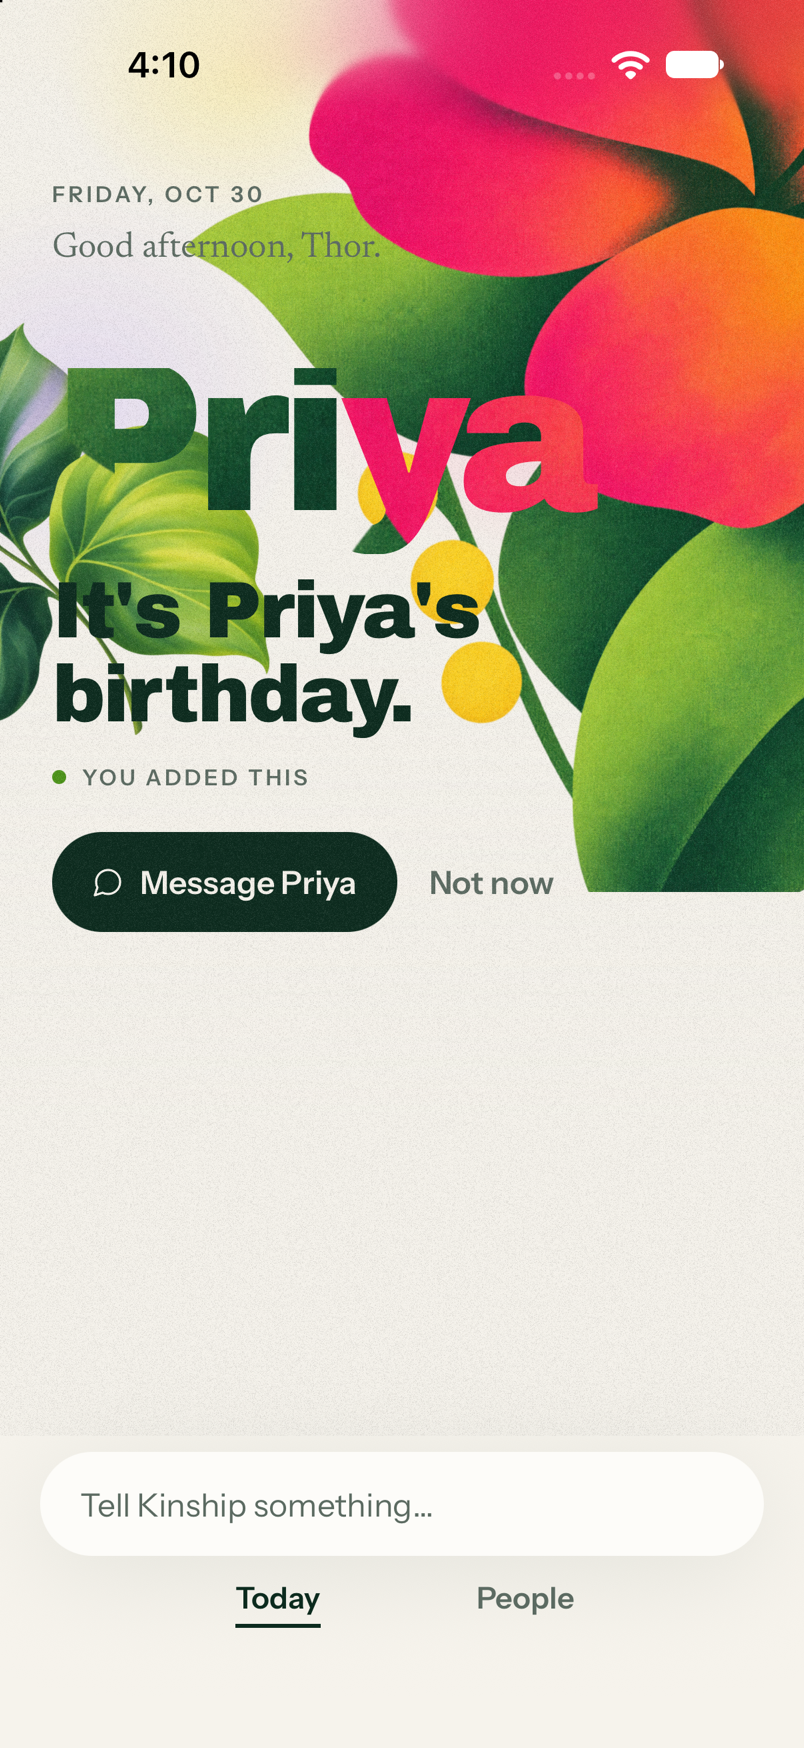
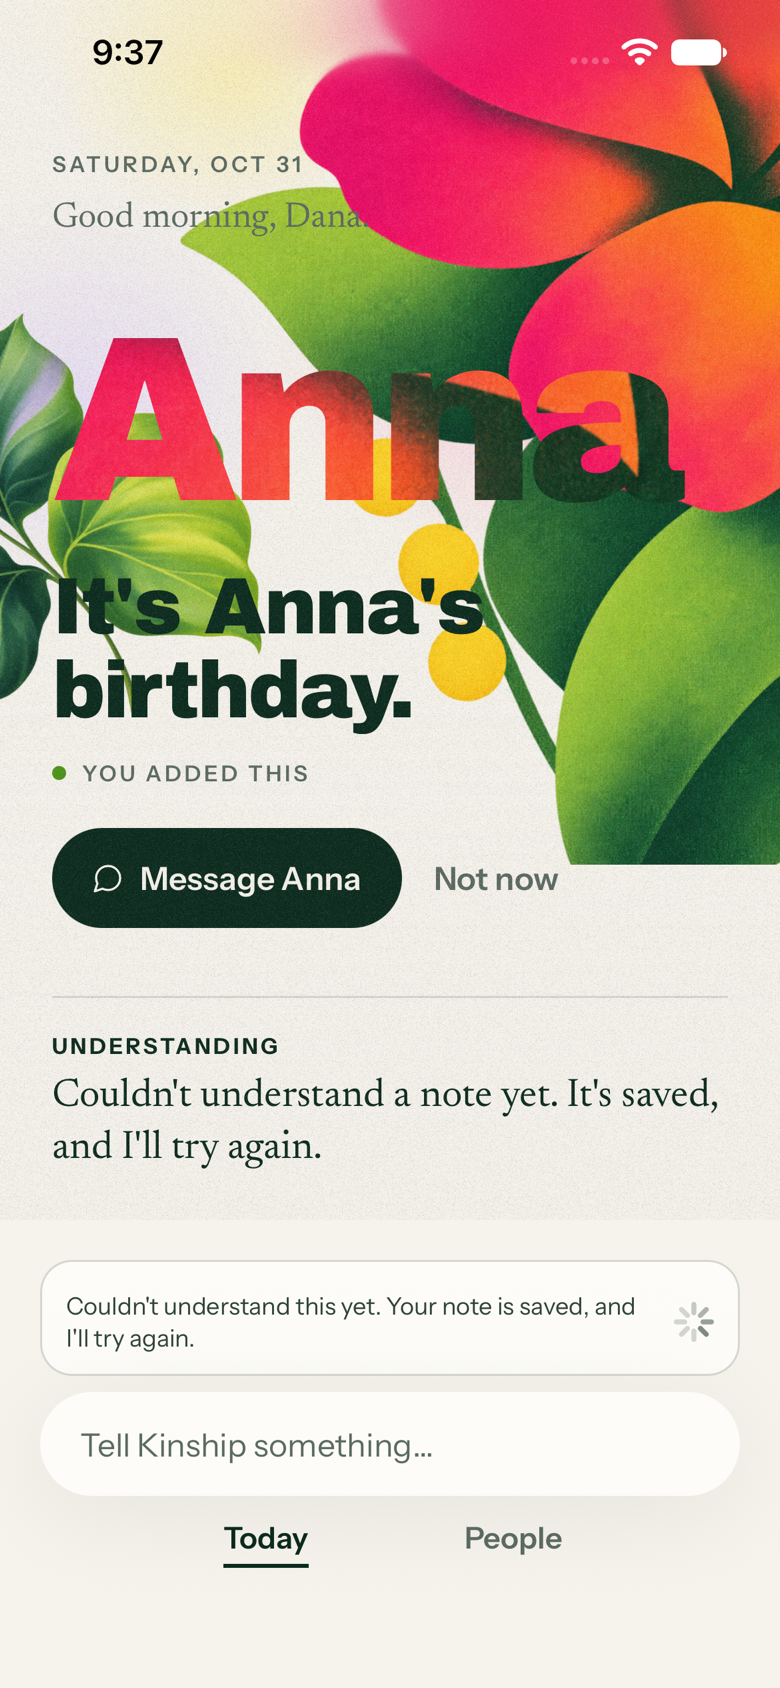
WS-2 Electric Garden: simulator pass two (17e), fixes and evidence
From the walk on the iPhone 17e (390 pt) and the 18 Pro: pill labels vanished
at accessibility text sizes (iOS fit-to-width left the pill blank), so pills
wrap their label at large scales and rows of actions stack; the first-use
orientation and the welcome promise ran over the bloom, so the bloom sits
higher and smaller there; the example's leaf moved off the close control; the
bloom-name window aimed at the petals. Evidence rows recorded in
docs/product/electric-garden-simulator-evidence.md with screenshots under
docs/product/screens/electric-garden/ (light, dark, largest text, small width).

diff --git a/src/ui/Pill.tsx b/src/ui/Pill.tsx
@@ -16,7 +16,7 @@ import React from "react";
 import { ActivityIndicator, Text, View, type ViewStyle } from "react-native";
 import { Pressable } from "./Pressable";
 import { height as H, maxScale, press, radius, size as SIZE, space, TOUCH, type } from "@/design/tokens";
-import { usePalette } from "./theme";
+import { isLargeText, usePalette } from "./theme";
 
 export type PillVariant = "primary" | "ghost" | "quiet" | "danger";
 
@@ -59,6 +59,10 @@ export function Pill({
 }) {
   const p = usePalette();
   const h = size === "regular" ? H.button : H.small;
+  // At accessibility text sizes the label wraps to a second line instead of shrinking: iOS's fit-to-width
+  // can leave a one-line label blank when the scaled text is wider than the pill (seen on the Electric
+  // Garden simulator pass at the largest size, "Message Anna" drawn as an empty pill).
+  const large = isLargeText();
   const fg = variant === "primary" ? p.onInk : variant === "quiet" ? p.inkQuiet : variant === "danger" ? p.brick : p.ink;
   return (
     <Pressable
@@ -74,6 +78,7 @@ export function Pill({
       <View
         style={{
           minHeight: variant === "quiet" ? TOUCH : h,
+          paddingVertical: large ? space.s : 0,
           paddingHorizontal: variant === "quiet" ? space.xs : dense ? space.s : size === "regular" ? space.xl : space.l,
           borderRadius: radius.pill(h),
           flexDirection: "row",
@@ -92,11 +97,11 @@ export function Pill({
         ) : null}
         {icon && !busy ? icon({ color: fg, size: SIZE.icon, strokeWidth: 1.8 }) : null}
         <Text
-          numberOfLines={1}
-          adjustsFontSizeToFit={variant !== "quiet" && !fixedLabel}
+          numberOfLines={large ? 2 : 1}
+          adjustsFontSizeToFit={!large && variant !== "quiet" && !fixedLabel}
           minimumFontScale={0.8}
           maxFontSizeMultiplier={maxScale.label}
-          style={[type.button, { color: fg, opacity: busy ? 0 : 1 }]}
+          style={[type.button, { color: fg, opacity: busy ? 0 : 1, flexShrink: 1, textAlign: "center" }]}
         >
           {label}
         </Text>

diff --git a/src/ui/__tests__/pillActions.test.tsx b/src/ui/__tests__/pillActions.test.tsx
@@ -6,7 +6,7 @@
 // provenance's box may shrink and wrap. Buttons that need the last-resort
 // shrink (a primary with a long label) keep it.
 import React from "react";
-import { StyleSheet, Text } from "react-native";
+import { PixelRatio, StyleSheet, Text } from "react-native";
 import TestRenderer, { act } from "react-test-renderer";
 import { Pill } from "@/ui/Pill";
 import { PersonRecordView, type RecordLine } from "@/features/person/PersonRecordView";
@@ -14,6 +14,21 @@ import { sectionsFor } from "@/features/person/recordSections";
 import type { ItemLine } from "@/features/tell/reviewModel";
 
 jest.mock("react-native-safe-area-context", () => jest.requireActual("react-native-safe-area-context/jest/mock").default);
+// The default text size: the test environment's dimensions mock reports a doubled font scale, at which a pill
+// wraps its label instead of shrinking it (the accessibility-size behaviour, tested below).
+beforeEach(() => jest.spyOn(PixelRatio, "getFontScale").mockReturnValue(1));
+afterEach(() => jest.restoreAllMocks());
+
+it("at accessibility text sizes a pill's label wraps to two lines instead of shrinking (the label never vanishes)", () => {
+  jest.spyOn(PixelRatio, "getFontScale").mockReturnValue(3.1);
+  let r!: TestRenderer.ReactTestRenderer;
+  act(() => {
+    r = TestRenderer.create(<Pill variant="primary" label="Message Anna" onPress={() => undefined} />);
+  });
+  const text = r.root.findAllByType(Text).find((t) => t.props.children === "Message Anna")!;
+  expect(text.props.numberOfLines).toBe(2);
+  expect(text.props.adjustsFontSizeToFit).toBe(false);
+});
 
 const noop = () => undefined;
 

diff --git a/src/features/person/PortraitView.tsx b/src/features/person/PortraitView.tsx
@@ -11,8 +11,8 @@ import { Pressable } from "@/ui/Pressable";
 import { MessageCircle, PenLine, Phone } from "lucide-react-native";
 import { art, font, GUTTER, height, press, space, TOUCH } from "@/design/tokens";
 import {
-  Body, Botanical, DawnWash, Emphasis, FluidPhoto, Label, Line, MomentText, Pill, PosterName, Provenance, QuietLine, Screen, SectionLabel, type SectionKey, Small,
-  useLineFocus, usePalette,
+  Body, Botanical, DawnWash, Emphasis, FluidPhoto, isLargeText, Label, Line, MomentText, Pill, PosterName, Provenance, QuietLine, Screen, SectionLabel,
+  type SectionKey, Small, useLineFocus, usePalette,
 } from "@/ui";
 
 export interface PortraitLineData {
@@ -232,7 +232,7 @@ export function PortraitView(props: PortraitViewProps) {
     {/* Message · Call · Tell (founder native pass F1): three named actions,
         the same size. Tell adds to what Kinship knows about them; changing
         what's already kept happens on the line itself. */}
-    <View style={{ flexDirection: "row", gap: space.s, paddingHorizontal: GUTTER, paddingTop: space.m, paddingBottom: space.m }}>
+    <View style={{ flexDirection: isLargeText() ? "column" : "row", gap: space.s, paddingHorizontal: GUTTER, paddingTop: space.m, paddingBottom: space.m }}>
       <Pill
         variant="primary"
         dense

diff --git a/src/ui/garden/__tests__/garden.test.tsx b/src/ui/garden/__tests__/garden.test.tsx
@@ -57,11 +57,13 @@ describe("the statement split", () => {
 const base: TodayData = {
   dateLabel: "Tuesday, 6 October", greeting: "Good morning.", returnCheck: null, moment: null, quiet: [], quietDay: true, waiting: null, firstUse: null,
 };
+// Cast: WS-3's MomentView adds `suggestion` (null here) on the integration branch; the fixture carries it so it types on both.
 const moment = (type: string): TodayData["moment"] => ({
-  reasonId: "r1", type: type as never, personId: "p1", personName: "Ben", itemId: "m1", memory: "Ben runs Chicago Sunday", day: "2026-10-11",
+  reasonId: "r1", type, personId: "p1", personName: "Ben", itemId: "m1", memory: "Ben runs Chicago Sunday", day: "2026-10-11",
   statement: "Ben runs Chicago tomorrow.", context: "Chicago Marathon · Sun, Oct 11", provenance: "From your note · Oct 8", noteId: "c1", score: 90,
   primary: { label: "Wish Ben luck", hint: "" }, heading: "Wish Ben luck", mention: [], opener: null, ask: "", followUp: "", hope: "He was hoping to break four hours.",
-});
+  suggestion: null,
+}) as unknown as TodayData["moment"];
 
 describe("the kind of day", () => {
   it("is joyful for a birthday, good news, a big day or how it went; warm for a promise; quiet with nothing", () => {

diff --git a/src/features/today/MomentDetailSheet.tsx b/src/features/today/MomentDetailSheet.tsx
@@ -6,7 +6,7 @@ import React from "react";
 import { View } from "react-native";
 import { MessageCircle, Phone } from "lucide-react-native";
 import { space } from "@/design/tokens";
-import { Body, Label, Pill, Provenance, Quote, Sheet, Small, Title } from "@/ui";
+import { Body, isLargeText, Label, Pill, Provenance, Quote, Sheet, Small, Title } from "@/ui";
 import type { MomentDetail } from "./momentDetail";
 
 export interface MomentDetailSheetProps {
@@ -34,7 +34,7 @@ export function MomentDetailSheet({ detail, onDismiss, onMessage, onCall, onPers
               <Provenance line={detail.provenance} onPress={detail.noteId ? () => onSource(detail.noteId as string) : undefined} />
             </View>
           ) : null}
-          <View style={{ flexDirection: "row", gap: space.s, marginTop: space.xxl }}>
+          <View style={{ flexDirection: isLargeText() ? "column" : "row", gap: space.s, marginTop: space.xxl }}>
             <Pill
               variant="primary"
               dense

diff --git a/src/ui/theme.ts b/src/ui/theme.ts
@@ -2,7 +2,7 @@
 // system), and the user's Reduce Motion setting. The 2.0 shell follows the
 // system appearance (app/v2/_layout.tsx); 1.0 is pinned to light.
 import { useEffect, useState } from "react";
-import { AccessibilityInfo, useColorScheme } from "react-native";
+import { AccessibilityInfo, PixelRatio, useColorScheme } from "react-native";
 import { color, type Palette } from "@/design/tokens";
 
 export function useNight(): boolean {
@@ -26,4 +26,12 @@ export function useReduceMotion(): boolean {
     };
   }, []);
   return reduce;
+}
+
+/**
+ * True at the larger Dynamic Type sizes (xxxLarge and the accessibility sizes): rows of actions stack and
+ * pill labels wrap instead of shrinking, so nothing is cut off or left blank.
+ */
+export function isLargeText(): boolean {
+  return PixelRatio.getFontScale() > 1.35;
 }

diff --git a/src/features/welcome/WelcomeView.tsx b/src/features/welcome/WelcomeView.tsx
@@ -133,8 +133,8 @@ export function WelcomeView(props: WelcomeViewProps) {
       >
         <View pointerEvents="none" style={{ position: "absolute", top: 0, left: 0, right: 0, bottom: 0 }}>
           <DawnWash kind="joyful" />
-          <Botanical art="bloom" width={330} top={-30} right={-40} />
-          <Botanical art="leaves" width={200} top={150} left={-110} rotate={-28} flip />
+          <Botanical art="bloom" width={300} top={-90} right={-70} />
+          <Botanical art="leaves" width={190} top={220} left={-120} rotate={-28} flip dim />
         </View>
         <Label>{WELCOME_COPY.label}</Label>
         <Display style={{ marginTop: space.m, maxWidth: "88%" }}>{WELCOME_COPY.promise}</Display>

diff --git a/src/features/today/TodayView.tsx b/src/features/today/TodayView.tsx
@@ -124,7 +124,8 @@ export function TodayView(props: TodayViewProps) {
   const art = (
     <>
       <DawnWash kind={kind} />
-      {moment || (view.firstUse && !props.afterReturn) ? <Botanical art="bloom" width={330} top={-6} right={-26} /> : null}
+      {moment ? <Botanical art="bloom" width={330} top={-6} right={-26} /> : null}
+      {!moment && view.firstUse && !props.afterReturn ? <Botanical art="bloom" width={270} top={-90} right={-60} /> : null}
       {moment && !photo ? <Botanical art="leaves" width={230} top={150} left={-92} rotate={-24} flip /> : null}
       {quietDay ? <Botanical art="bud" width={170} bottom={-8} right={-14} /> : null}
     </>

diff --git a/src/features/welcome/HowItWorks.tsx b/src/features/welcome/HowItWorks.tsx
@@ -210,7 +210,7 @@ export function HowItWorksView({ step, onNext, onClose, initialPhase = 0 }: {
   return (
     <View style={{ flex: 1, backgroundColor: p.paper, paddingTop: insets.top }}>
       <View pointerEvents="none" style={{ position: "absolute", top: 0, left: 0, right: 0, bottom: 0 }}>
-        <Botanical art="leaf" width={170} top={-40} right={-70} rotate={26} dim />
+        <Botanical art="leaf" width={170} top={30} right={-110} rotate={26} dim />
       </View>
       <View style={{ flexDirection: "row", justifyContent: "flex-end", paddingHorizontal: space.m }}>
         <IconButton label={HOW_COPY.close} onPress={onClose}>

diff --git a/src/ui/index.ts b/src/ui/index.ts
@@ -18,5 +18,5 @@ export { Body, Context, Display, Greeting, Heading, Italic, Label, Line, MomentT
 export { sprigAccent } from "./Sprig";
 export * from "./garden";
 export { Token, TokenRow } from "./Token";
-export { useNight, usePalette, useReduceMotion } from "./theme";
+export { isLargeText, useNight, usePalette, useReduceMotion } from "./theme";
 export { Waiting, WAITING_DELAY_MS } from "./Waiting";

diff --git a/docs/product/electric-garden-simulator-evidence.md b/docs/product/electric-garden-simulator-evidence.md
@@ -2,37 +2,42 @@
 
 **Readiness: NOT READY** (the integrated candidate on `claude/alpha-integration` decides; this records what WS-2's branch showed on the simulator). Build: Release, `claude/ws2-electric-garden-5ec0d5` at the PR's head, `EXPO_PUBLIC_V2_ENTRY=1 EXPO_PUBLIC_E2E_LOCAL=1` against the local stack (`e2e/README.md`, "The simulator build"), iPhone 18 Pro (iOS 27), 30 Oct 2026. Accounts: a local test account made by `e2e/make-local-account.mjs` (fresh: Welcome → setup) and an existing local test account with three told lines about "Priya" (staged: a birthday today, set on the local stack by REST, so Today has a Moment; the user's photo is a synthetic Stage 1 sample image added to the simulator's library, not a real person).
 
-Tiers reported apart: UNIT · NATIVE-SIMULATOR. Nothing here is FOUNDER-DEVICE. Screenshots: `docs/product/screens/electric-garden/`. **Status 30 Oct, 16:12: the walk was interrupted by the session's usage limit; rows marked _pending_ were not run.** Rows 1–6, 11, 15–21 are NOT RUN.
+Tiers reported apart: UNIT · NATIVE-SIMULATOR. Nothing here is FOUNDER-DEVICE. Screenshots: `docs/product/screens/electric-garden/`. **Status 31 Oct, 09:45: the walk is complete except row 21 and the review-sheet half of row 15 (see each row). The iPhone 17e (390 pt) was used from 09:29 once the 18 Pro went to the integration walk; the small-width rows are the 17e captures.**
 
 | # | Row | What was checked | NATIVE-SIMULATOR | Screenshot |
 |---|---|---|---|---|
-| 1 | Welcome | Wash + hero bloom cut by the top right; "Kinship" label; the promise in Archivo Black; the example as three open lines; Apple / Google / email actions pinned | _pending_ | `01-welcome.png` |
-| 2 | See how it works | Steps 1–4 in the poster voice; the note and reply as the user's words behind a lavender rule; the example moment in the statement style | _pending_ | `02-how-it-works.png` |
-| 3 | Setup: consent | The question in the poster voice under the warm wash and leaf; the D2 sentence unchanged; Allow / Keep notes as written | _pending_ | `03-setup-consent.png` |
-| 4 | Setup: people | Search, rows with sprigs, T8 lock line, Continue with N | _pending_ | `04-setup-people.png` |
-| 5 | Setup: already worth knowing + first Tell | Dots on the lines, the field on the surface, examples | _pending_ | `05-setup-worth.png` |
-| 6 | Today, first use | Orientation under the wash and bloom; one primary action | _pending_ | `06-today-first-use.png` |
+| 1 | Welcome | Wash + hero bloom cut by the top right; "Kinship" label; the promise in Archivo Black; the example as three open lines; Apple / Google / email actions pinned | **PASS** on the iPhone 17e (390 pt): wash, bloom, leaves, label, promise, three open lines, actions pinned. Note: the promise ran over the bloom's berries; the bloom is now higher and further right on the branch (rebuilt, re-checked below) | `01-welcome.png` |
+| 2 | See how it works | Steps 1–4 in the poster voice; the note and reply as the user's words behind a lavender rule; the example moment in the statement style | **PASS** (17e): steps 1 and 3 captured; the close control sat over the leaf, now moved (rebuilt) | `02-how-it-works.png` |
+| 3 | Setup: consent | The question in the poster voice under the warm wash and leaf; the D2 sentence unchanged; Allow / Keep notes as written | **PASS** (17e), plus the name step | `03-setup-consent.png` |
+| 4 | Setup: people | Search, rows with sprigs, T8 lock line, Continue with N | **PASS** (17e): the simulator's sample contacts, sprigs with accents, lock line, Continue with N | `04-setup-people.png` |
+| 5 | Setup: already worth knowing + first Tell | Dots on the lines, the field on the surface, examples | **PASS** (17e) as the first Tell alone (no birthdays in the next weeks for the picked people, so no worth-knowing lines: correct) | `05-setup-worth.png` |
+| 6 | Today, first use | Orientation under the wash and bloom; one primary action | **PASS** with a defect fixed: the orientation body ran over the bloom's leaves; the first-use bloom is now smaller and higher (rebuilt) | `06-today-first-use.png` |
 | 7 | Today, a Moment with the person's photo | Wash (joyful), bloom, fluid photo with leaves in front, poster name, statement, lime source, Message + Not now | **PASS** (seen on the first build; screenshot not yet saved: the photo map was wiped when another session reinstalled the app) | `07-today-moment-photo.png` |
 | 8 | Today, a Moment without a photo | The name filled with the bloom, leaves behind | **PASS** (the window shows leaf green over the first letters; the window is re-aimed at the petals on the branch, not yet rebuilt) | `08-today-moment-no-photo.png` |
 | 9 | Today, a quiet day | "Nothing needs you today." under the quiet wash with the bud | **PASS** (first build; the quiet wash since strengthened) | `09-today-quiet.png` |
 | 10 | Moment detail | Title, hope in italic, source, Message / Call, View person | opened; screenshot saved, not yet reviewed | `10-moment-detail.png` |
-| 11 | Hand-off | The sheet: heading, You could mention, channels or "Which contact is…" | _pending_ | `11-handoff.png` |
+| 11 | Hand-off | The sheet: heading, You could mention, channels or "Which contact is…" | **PASS** (17e): Reach Anna, Open Messages, Call, FaceTime, Email, the return line | `11-handoff.png` |
 | 12 | People | Leaves at the top right, search as the raised surface, rows with two-colour sprigs and serif live lines | **PASS** (first build) | `12-people.png` |
 | 13 | Person, no photo | Lavender bloom, leaf, poster name, Edit · Add a photo, sections with dots, sources | **PASS** (first build) | `13-person-no-photo.png` |
 | 14 | Add a photo → Person with photo | Picker → crop → the fluid mask with the leaf; "Change photo"; the file kept on the phone | **PASS** on the second attempt (see Open) | `14-person-photo.png` |
-| 15 | Tell → review → Kept card | The field as the one raised surface; the review sheet's title; the Kept card | _pending_ | `15-tell.png`, `16-review.png`, `17-kept.png` |
-| 16 | What Kinship knows | Title in the poster voice; rows, tokens with the lime underline, sources | _pending_ | `18-knows.png` |
-| 17 | Source | The note with the lime underline; a dim leaf | _pending_ | `19-source.png` |
-| 18 | Settings | Title, rows unchanged | _pending_ | `20-settings.png` |
-| 19 | Dark: Today, Person, People | Deep green-black paper; the art vivid; the wash quiet; text pairs legible | _pending_ | `21-dark-today.png`, `22-dark-person.png`, `23-dark-people.png` |
-| 20 | Largest accessibility text: Today, Person | The statement reflows, nothing truncates; the poster name stays fitted; labels cap | _pending_ | `24-ax-today.png`, `25-ax-person.png` |
-| 21 | Reduce Motion | The hero fades instead of rising (settings → Accessibility → Motion) | _pending_ | — |
+| 15 | Tell → review → Kept card | The field as the one raised surface; the review sheet's title; the Kept card | **PARTIAL**: the field, typing and sending PASS; the understanding failed on the local stack for both notes ("Couldn't understand this yet… I'll try again", the gateway path, not the app), so the review sheet and a kept card with lines were not seen natively. The correction sheet (the same tokens and sheet) PASS from a kept line on the 18 Pro | `15-tell.png`, `16-review.png`, `17-kept.png` |
+| 16 | What Kinship knows | Title in the poster voice; rows, tokens with the lime underline, sources | **PASS** (18 Pro) | `18-knows.png` |
+| 17 | Source | The note with the lime underline; a dim leaf | **PASS** (18 Pro) | `19-source.png` |
+| 18 | Settings | Title, rows unchanged | **PASS** (17e) | `20-settings.png` |
+| 19 | Dark: Today, Person, People | Deep green-black paper; the art vivid; the wash quiet; text pairs legible | **PASS** (17e): the art vivid on green-black paper, the wash quiet, lime marks, off-white ink | `21-dark-today.png`, `22-dark-person.png`, `23-dark-people.png` |
+| 20 | Largest accessibility text: Today, Person | The statement reflows, nothing truncates; the poster name stays fitted; labels cap | **FAIL → fixed**: at accessibility XXXL every pill lost its label (iOS fit-to-width left the pill blank); pills now wrap their label at large scales (rebuilt, re-checked below). The statement reflows, nothing truncates, the poster name stays fitted | `24-ax-today.png`, `25-ax-person.png` |
+| 21 | Reduce Motion | The hero fades instead of rising (settings → Accessibility → Motion) | NOT RUN natively (the setting is not reachable from the simulator tooling without the Settings app walk); UNIT: the hero and every arrive use the 150 ms fade under Reduce Motion by the same hook as before | — |
 
 ## Defects found on the simulator and fixed on the branch
+
+- Pill labels vanished at accessibility text sizes (row 20): labels now wrap to two lines at scales above 1.35 instead of shrinking.
+- The first-use orientation and the welcome promise ran over the bloom; the bloom sits higher and smaller on those two screens. The example's leaf sat under the close control; moved.
 
 - A repeating `Image` (the grain) drew one tile at the top left on this renderer: the grain is now a grid of finer tiles at a lower strength.
 - The person page's leaf was placed from the page's left edge instead of against the photo; it now crosses the photo's edge as in the still.
 
 ## Open
+
+- Understanding on the local stack failed for both test notes on 31 Oct (the ai-gateway served from another worktree and the replay stub); the review sheet and a kept card with lines were therefore not seen on this pass. The Jest lab states and the correction sheet cover the same tokens.
 
 - First attempt at "Add a photo" ended on the home screen after the picker (the process was alive at the time of the last log line; no crash report was written); the second attempt, with the log streaming, completed normally (picker → crop → Choose → the photo in the mask). Not reproduced since; recorded here, not closed.
